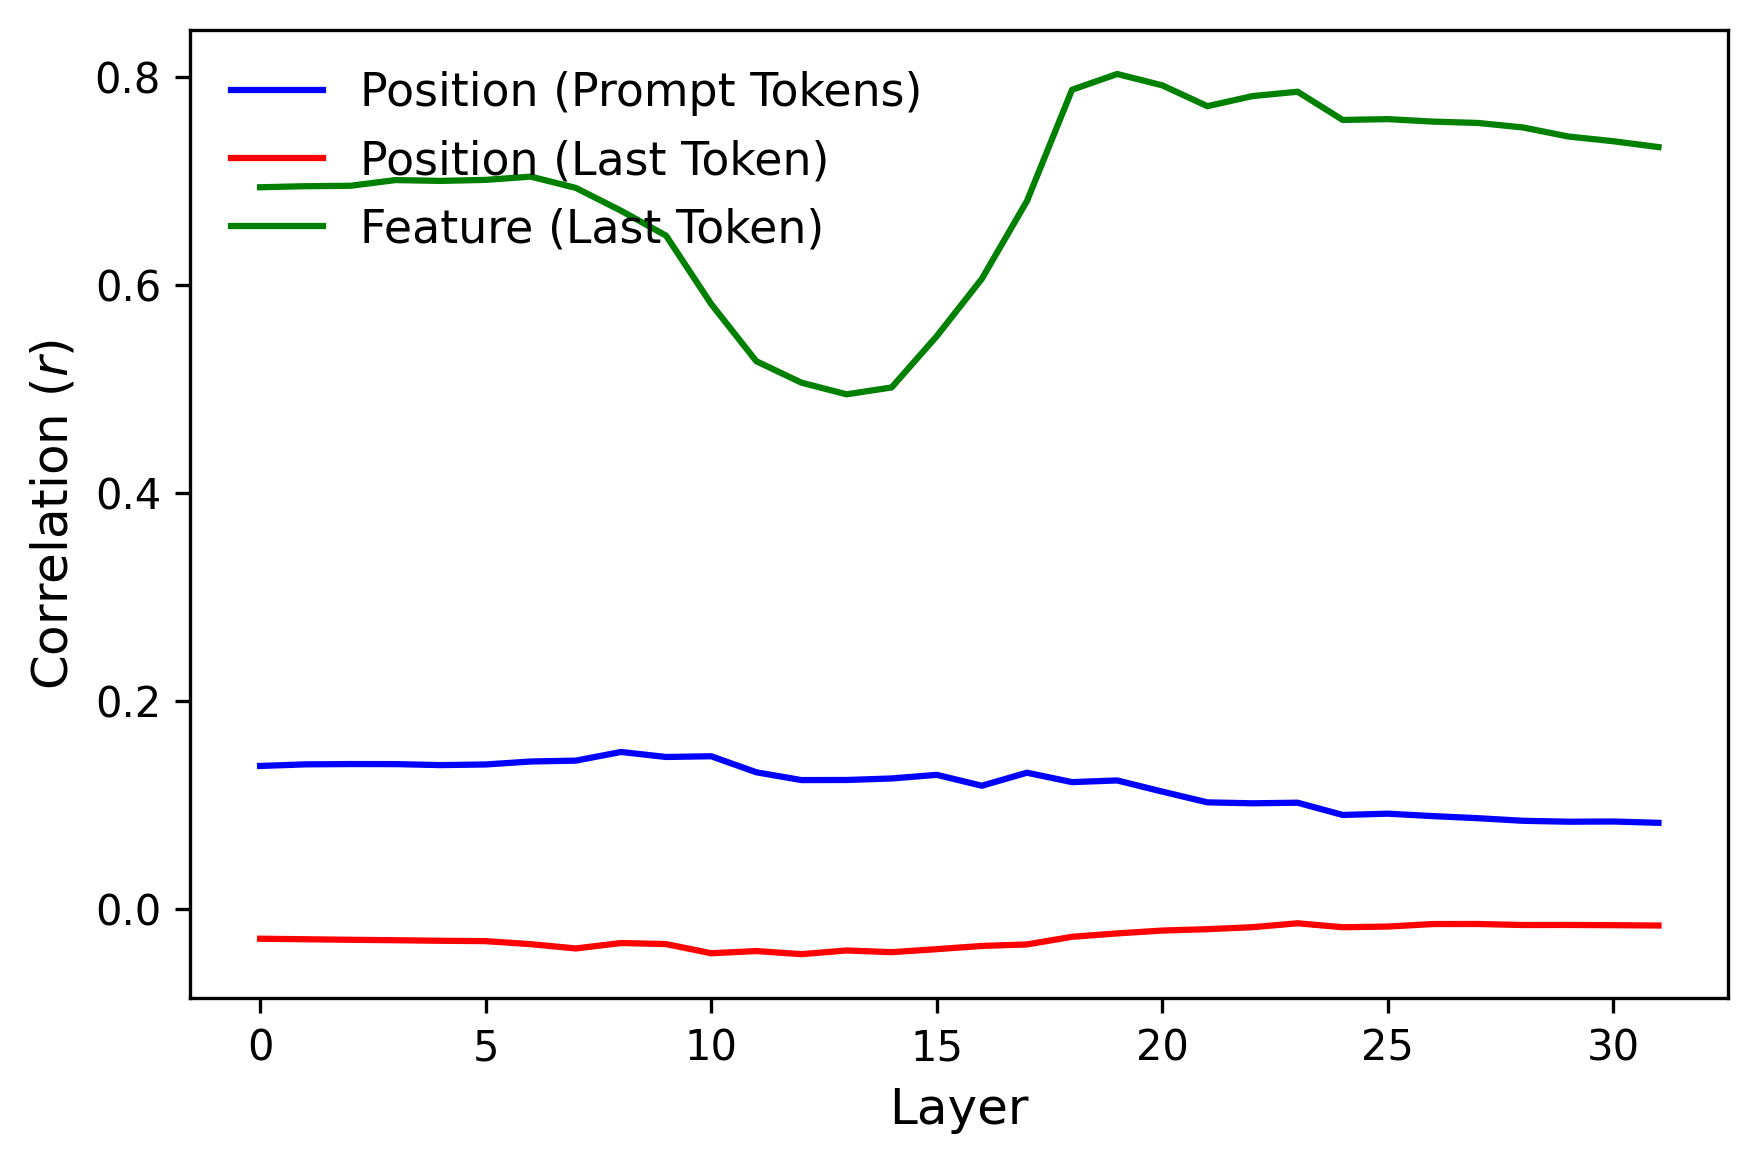
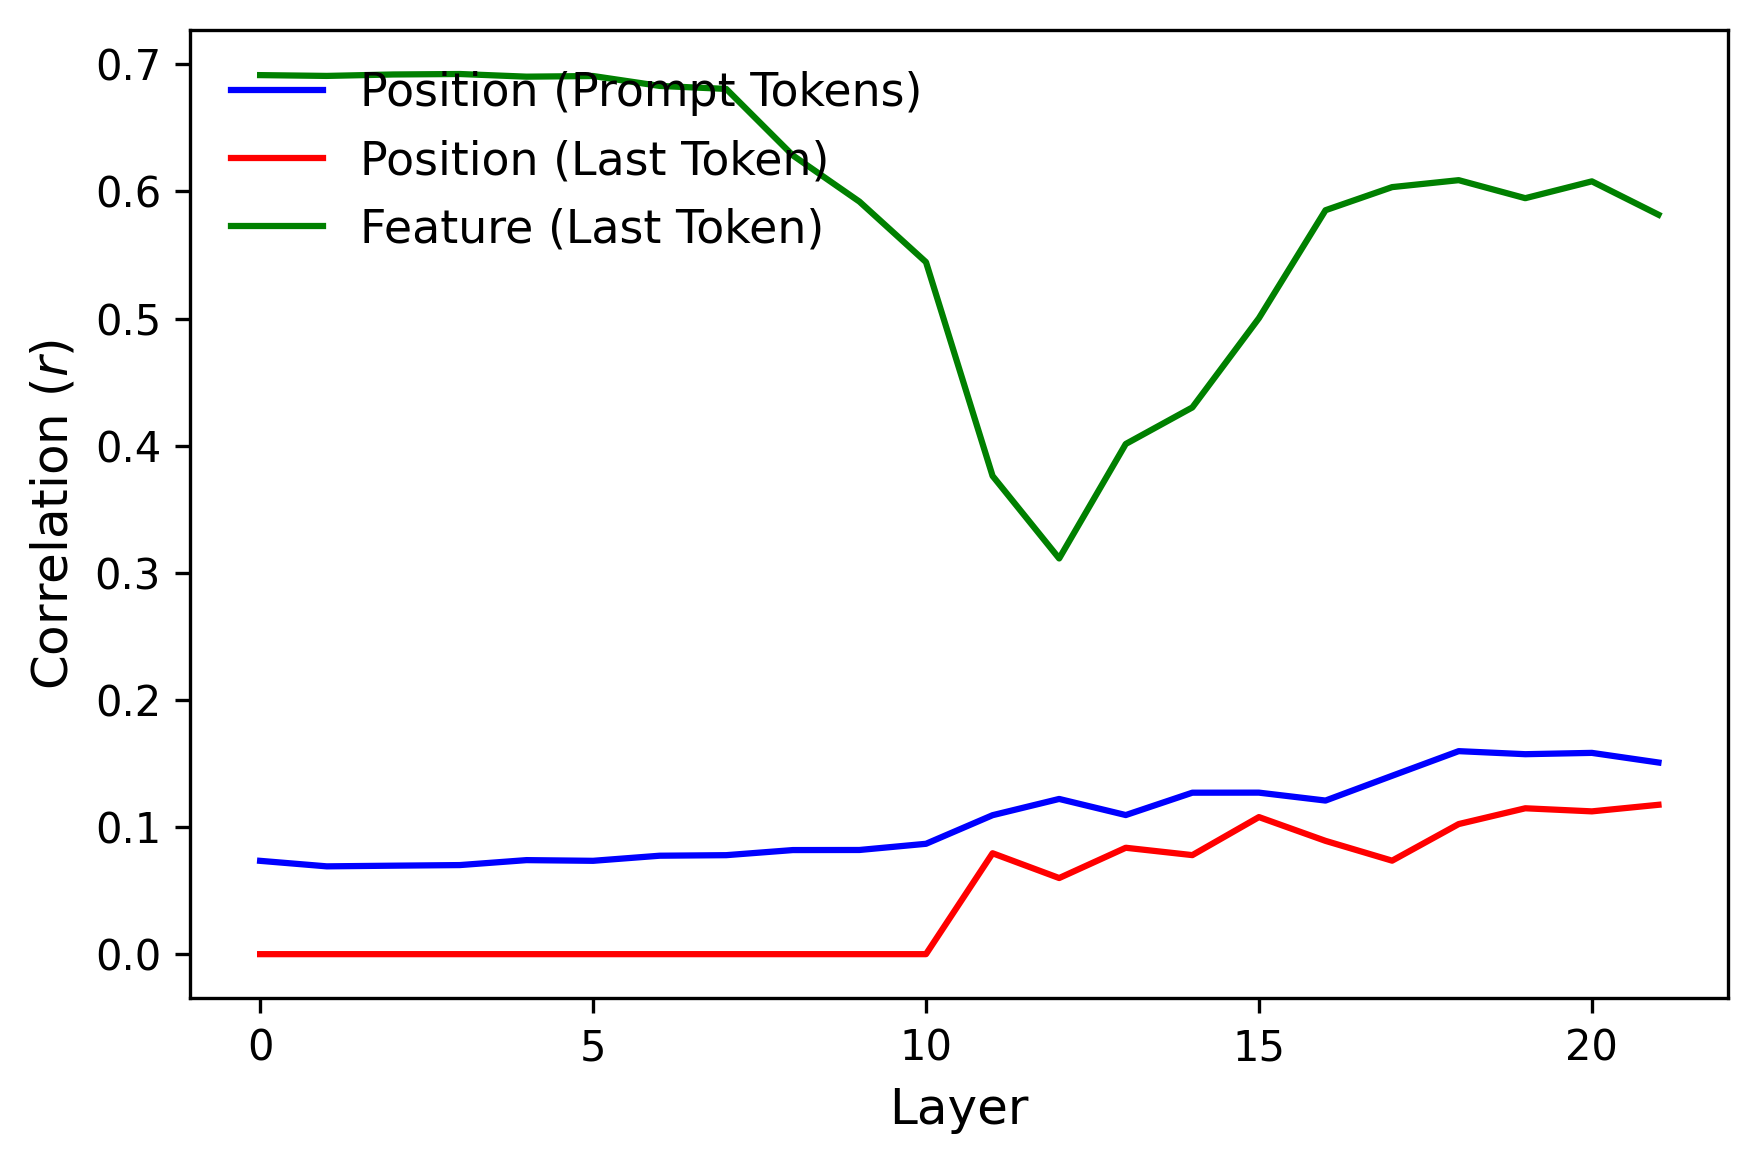
update

diff --git a/src/mech_interp/tracer.py b/src/mech_interp/tracer.py
@@ -81,6 +81,49 @@ def _resolve_layer_path(model: LanguageModel, path_string: str):
             
     return current_module
 
+def _resolve_text_model_dims(model: Any) -> Tuple[int, int]:
+    """
+    Resolve (hidden_size, num_attention_heads) across wrapped/unwrapped VLM models.
+    Works when `model.config` is missing/None (common with wrappers).
+    """
+    candidate_configs: List[Any] = []
+
+    # Direct config on the visible object
+    candidate_configs.append(getattr(model, "config", None))
+
+    # Common nnsight/HF wrapper patterns
+    local_model = getattr(model, "local_model", None)
+    if local_model is not None:
+        candidate_configs.append(getattr(local_model, "config", None))
+
+    nested_model = getattr(model, "model", None)
+    if nested_model is not None:
+        candidate_configs.append(getattr(nested_model, "config", None))
+        language_model = getattr(nested_model, "language_model", None)
+        if language_model is not None:
+            candidate_configs.append(getattr(language_model, "config", None))
+
+    # Some multimodal models expose text dims under text_config
+    expanded_configs: List[Any] = []
+    for cfg in candidate_configs:
+        if cfg is None:
+            continue
+        expanded_configs.append(cfg)
+        text_cfg = getattr(cfg, "text_config", None)
+        if text_cfg is not None:
+            expanded_configs.append(text_cfg)
+
+    for cfg in expanded_configs:
+        hidden_size = getattr(cfg, "hidden_size", None)
+        num_heads = getattr(cfg, "num_attention_heads", None)
+        if isinstance(hidden_size, int) and isinstance(num_heads, int) and num_heads > 0:
+            return hidden_size, num_heads
+
+    raise AttributeError(
+        "Could not resolve hidden_size/num_attention_heads from model object. "
+        "Expected fields on config or text_config."
+    )
+
 def extract_hidden_states(
     model: LanguageModel, 
     processor: Any, 
@@ -156,7 +199,11 @@ def rsa_tracer(
     # 1. Initialize storage for both token types
     hidden_states_by_trial = []
     trial_object_ids, token_object_ids = _build_object_ids(trials)
-    
+
+    hidden_size, num_heads = _resolve_text_model_dims(model)
+    head_dim = hidden_size // num_heads
+    print(f'hidden_size: {hidden_size}, num_heads: {num_heads}, head_dim: {head_dim}')
+
     print(f"Extracting hidden states across {len(trials)} trials...")
     with torch.no_grad():
         for trial_idx, trial_data in enumerate(trials):